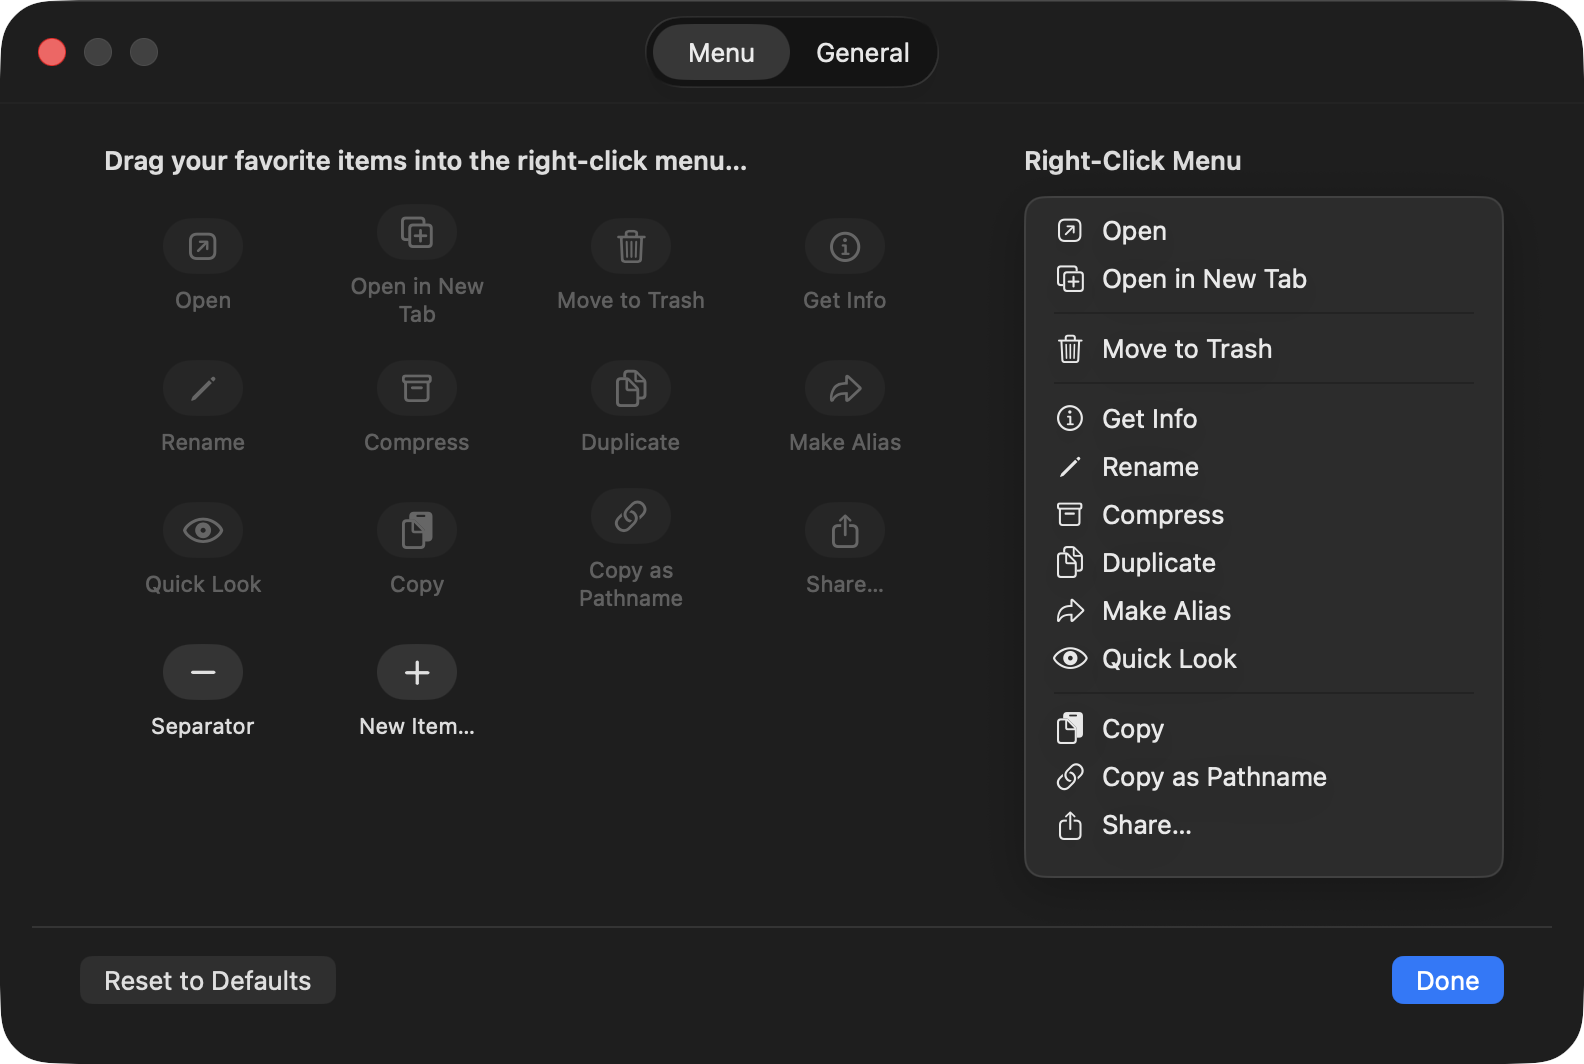
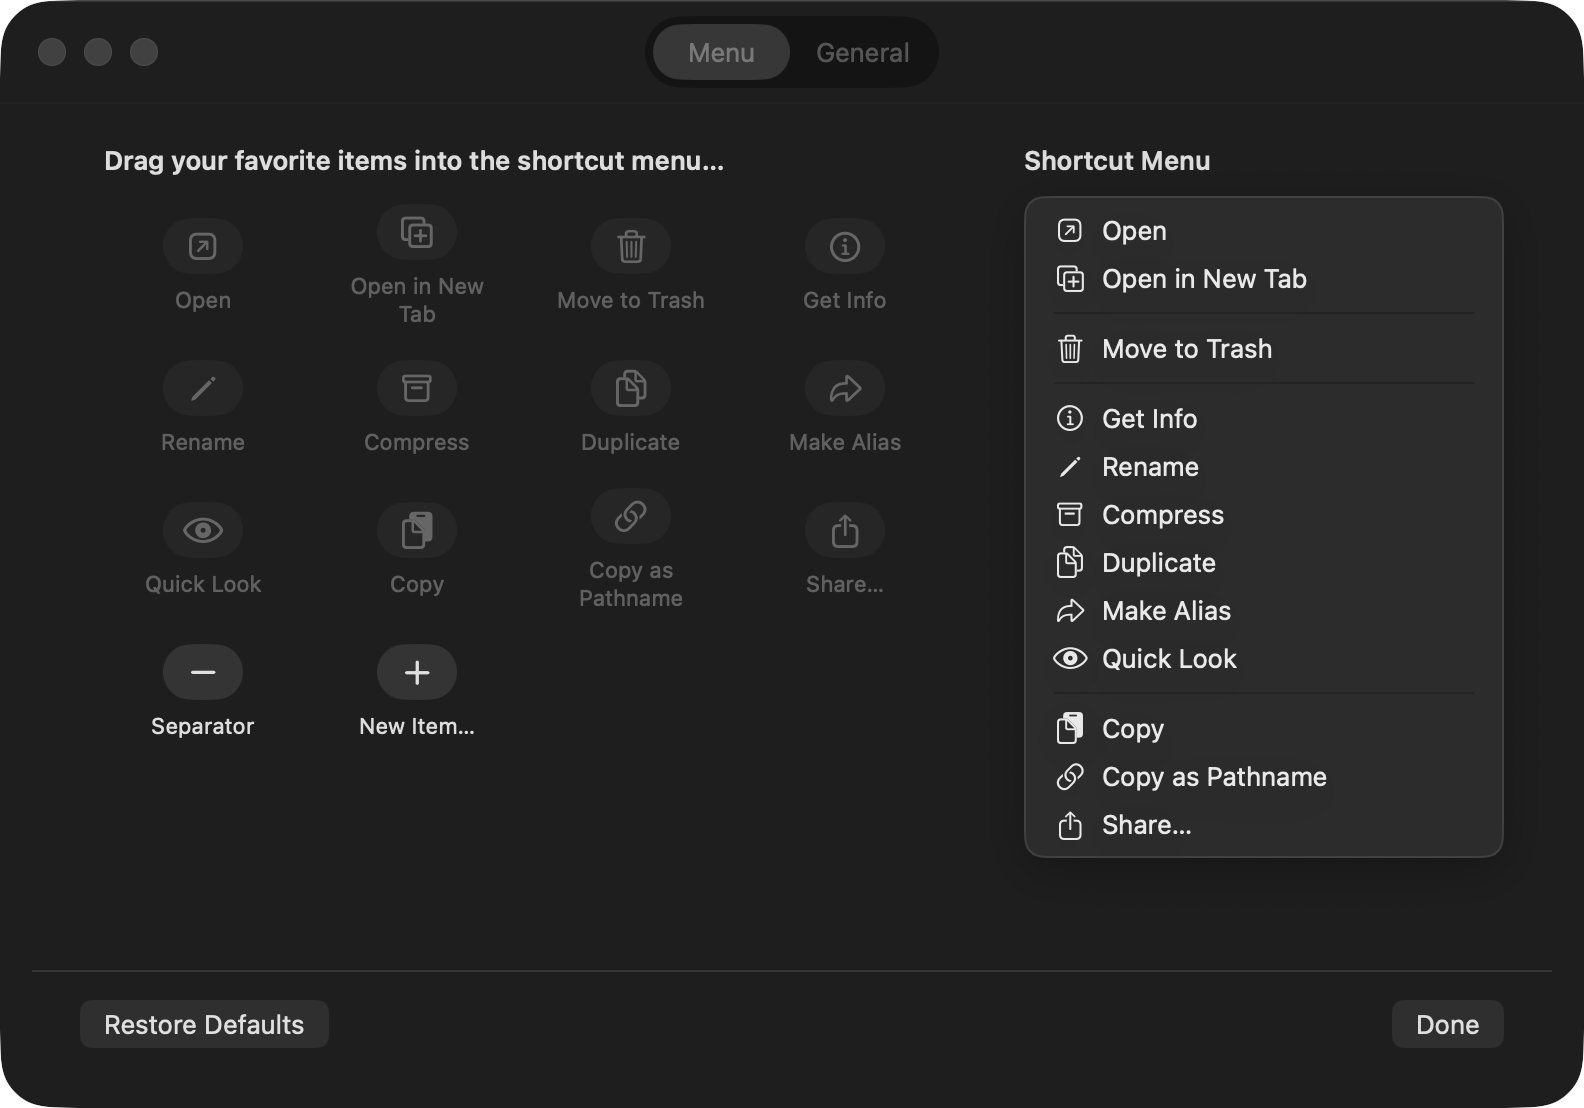
docs(lp): retake the settings screenshots with the macOS wording

diff --git a/lp/src/app/[locale]/page.tsx b/lp/src/app/[locale]/page.tsx
@@ -246,7 +246,7 @@ export default async function Page({ params }: PageProps) {
                   <Image
                     alt=""
                     className="w-full max-w-3xl rounded-xl shadow-[0_18px_40px_rgb(31_42_90/0.25)]"
-                    height={1064}
+                    height={1108}
                     src={locale === "ja" ? "/settings-ja.png" : "/settings-en.png"}
                     width={1584}
                   />
